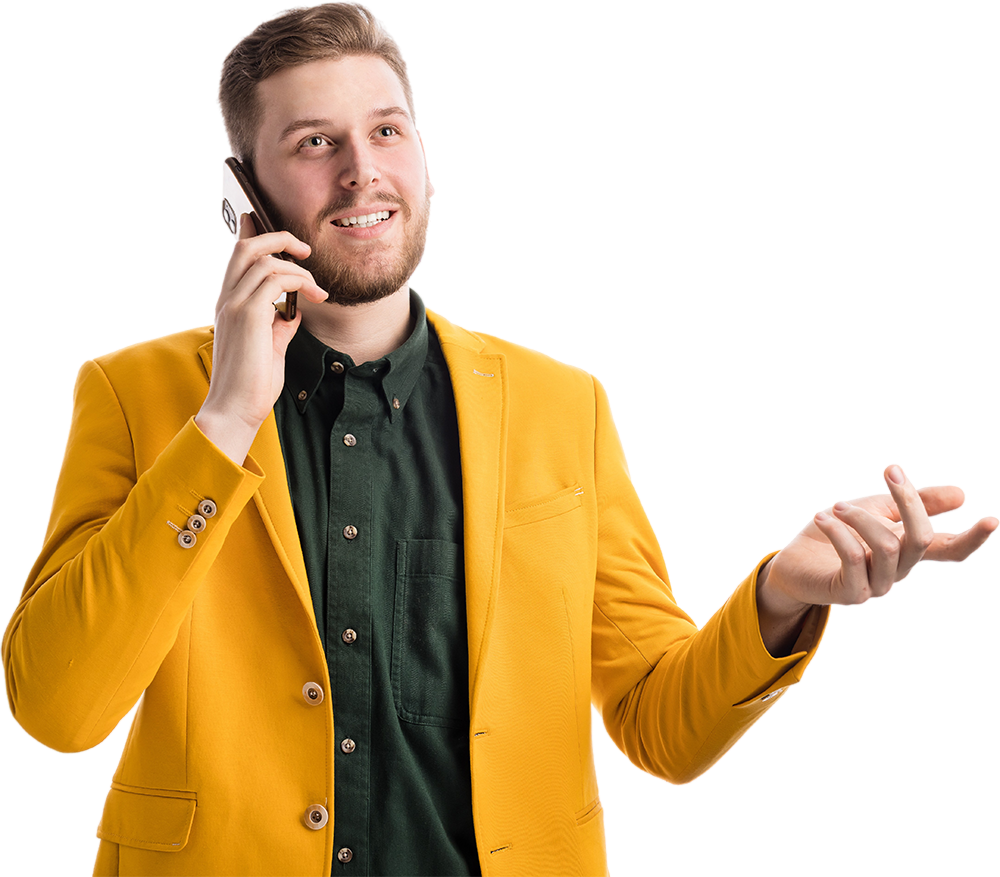
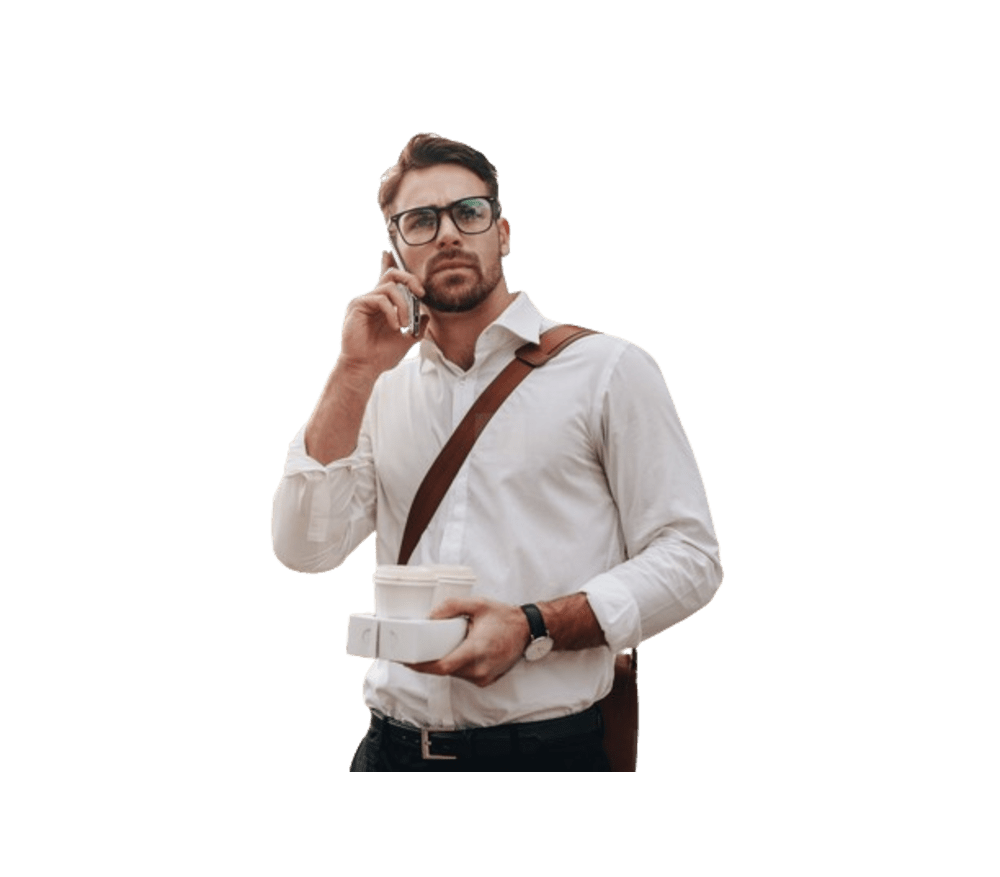
code updated

diff --git a/index.html b/index.html
@@ -459,7 +459,7 @@
                                 </div>
                                 <div class="pricing-head">
                                     <h3><a href="#">XUV 500</a></h3>
-                                    <span class="location">Chicago</span>
+                                    <span class="location">UDAIPUR</span>
                                 </div>
                                 <ul class="pricing-list">
                                     <li>Start:<span style="text-align: left;">Init Fee</span></li>
@@ -480,7 +480,7 @@
                                 </div>
                                 <div class="pricing-head">
                                     <h3><a href="#">Etios</a></h3>
-                                    <span class="location">Florida</span>
+                                    <span class="location">UDAIPUR</span>
                                 </div>
                                 <ul class="pricing-list">
                                     <li>Start:<span style="text-align: left;">Init Fee</span></li>
@@ -501,7 +501,7 @@
                                 </div>
                                 <div class="pricing-head">
                                     <h3><a href="#">Swift Dezire</a></h3>
-                                    <span class="location">New York</span>
+                                    <span class="location">UDAIPUR</span>
                                 </div>
                                 <ul class="pricing-list">
                                     <li>Start:<span style="text-align: left;">Init Fee</span></li>
@@ -526,7 +526,7 @@
                                 </div>
                                 <div class="pricing-head">
                                     <h3><a href="#">Innova</a></h3>
-                                    <span class="location">Chicago</span>
+                                    <span class="location">UDAIPUR</span>
                                 </div>
                                 <ul class="pricing-list">
                                     <li>Start:<span style="text-align: left;">Init Fee</span></li>
@@ -551,7 +551,7 @@
                                 </div>
                                 <div class="pricing-head">
                                     <h3><a href="#">BMW X5 2008</a></h3>
-                                    <span class="location">Chicago</span>
+                                    <span class="location">UDAIPUR</span>
                                 </div>
                                 <ul class="pricing-list">
                                     <li>Start:<span style="text-align: left;">Init Fee</span></li>
@@ -572,7 +572,7 @@
                                 </div>
                                 <div class="pricing-head">
                                     <h3><a href="#">Mercedes‑Benz</a></h3>
-                                    <span class="location">Florida</span>
+                                    <span class="location">UDAIPUR</span>
                                 </div>
                                 <ul class="pricing-list">
                                     <li>Start:<span style="text-align: left;">Init Fee</span></li>
@@ -593,7 +593,7 @@
                                 </div>
                                 <div class="pricing-head">
                                     <h3><a href="#">Hyundai 2022</a></h3>
-                                    <span class="location">New York</span>
+                                    <span class="location">UDAIPUR</span>
                                 </div>
                                 <ul class="pricing-list">
                                     <li>Start:<span style="text-align: left;">Init Fee</span></li>

diff --git a/our-taxi.html b/our-taxi.html
@@ -208,7 +208,7 @@
                         </div>
                         <div class="pricing-head">
                             <h3><a href="#">XUV 700</a></h3>
-                            <span class="location">Chicago</span>
+                            <span class="location">UDAIPUR</span>
                         </div>
                         <ul class="pricing-list">
                             <li>Start:<span style="text-align: left;">Init Fee</span></li>
@@ -229,7 +229,7 @@
                         </div>
                         <div class="pricing-head">
                             <h3><a href="#">Etios</a></h3>
-                            <span class="location">Florida</span>
+                            <span class="location">UDAIPUR</span>
                         </div>
                         <ul class="pricing-list">
                             <li>Start:<span style="text-align: left;">Init Fee</span></li>
@@ -250,7 +250,7 @@
                         </div>
                         <div class="pricing-head">
                             <h3><a href="#">Swift Dezire</a></h3>
-                            <span class="location">New York</span>
+                            <span class="location">UDAIPUR</span>
                         </div>
                         <ul class="pricing-list">
                             <li>Start:<span style="text-align: left;">Init Fee</span></li>
@@ -273,7 +273,7 @@
                         </div>
                         <div class="pricing-head">
                             <h3><a href="#">Innova</a></h3>
-                            <span class="location">Chicago</span>
+                            <span class="location">UDAIPUR</span>
                         </div>
                         <ul class="pricing-list">
                             <li>Start:<span style="text-align: left;">Init Fee</span></li>

diff --git a/assets/css/main.css b/assets/css/main.css
@@ -1499,10 +1499,16 @@
     background-position: bottom right;
     background-size: contain;
     width: 100%;
-    height: 100%;
+    /* height: 100%;
     position: absolute;
     right: 130px;
     bottom: -30px;
+    z-index: -1; */
+
+    height: 115%;
+    position: absolute;
+    right: 200px;
+    bottom: -64px;
     z-index: -1;
 }
 
@@ -1620,11 +1626,17 @@
 }
 
 .cta-section-2 .cta-men {
-    background-size: 95%;
+    /* background-size: 95%;
     right: 90px;
     bottom: 0;
     width: 500px;
-    height: 420px;
+    height: 420px; */
+
+    background-size: 95%;
+    right: 100px;
+    bottom: -59px;
+    width: 597px;
+    height: 437px;
 }
 
 @media (min-width: 993px) and (max-width: 1200px) {
